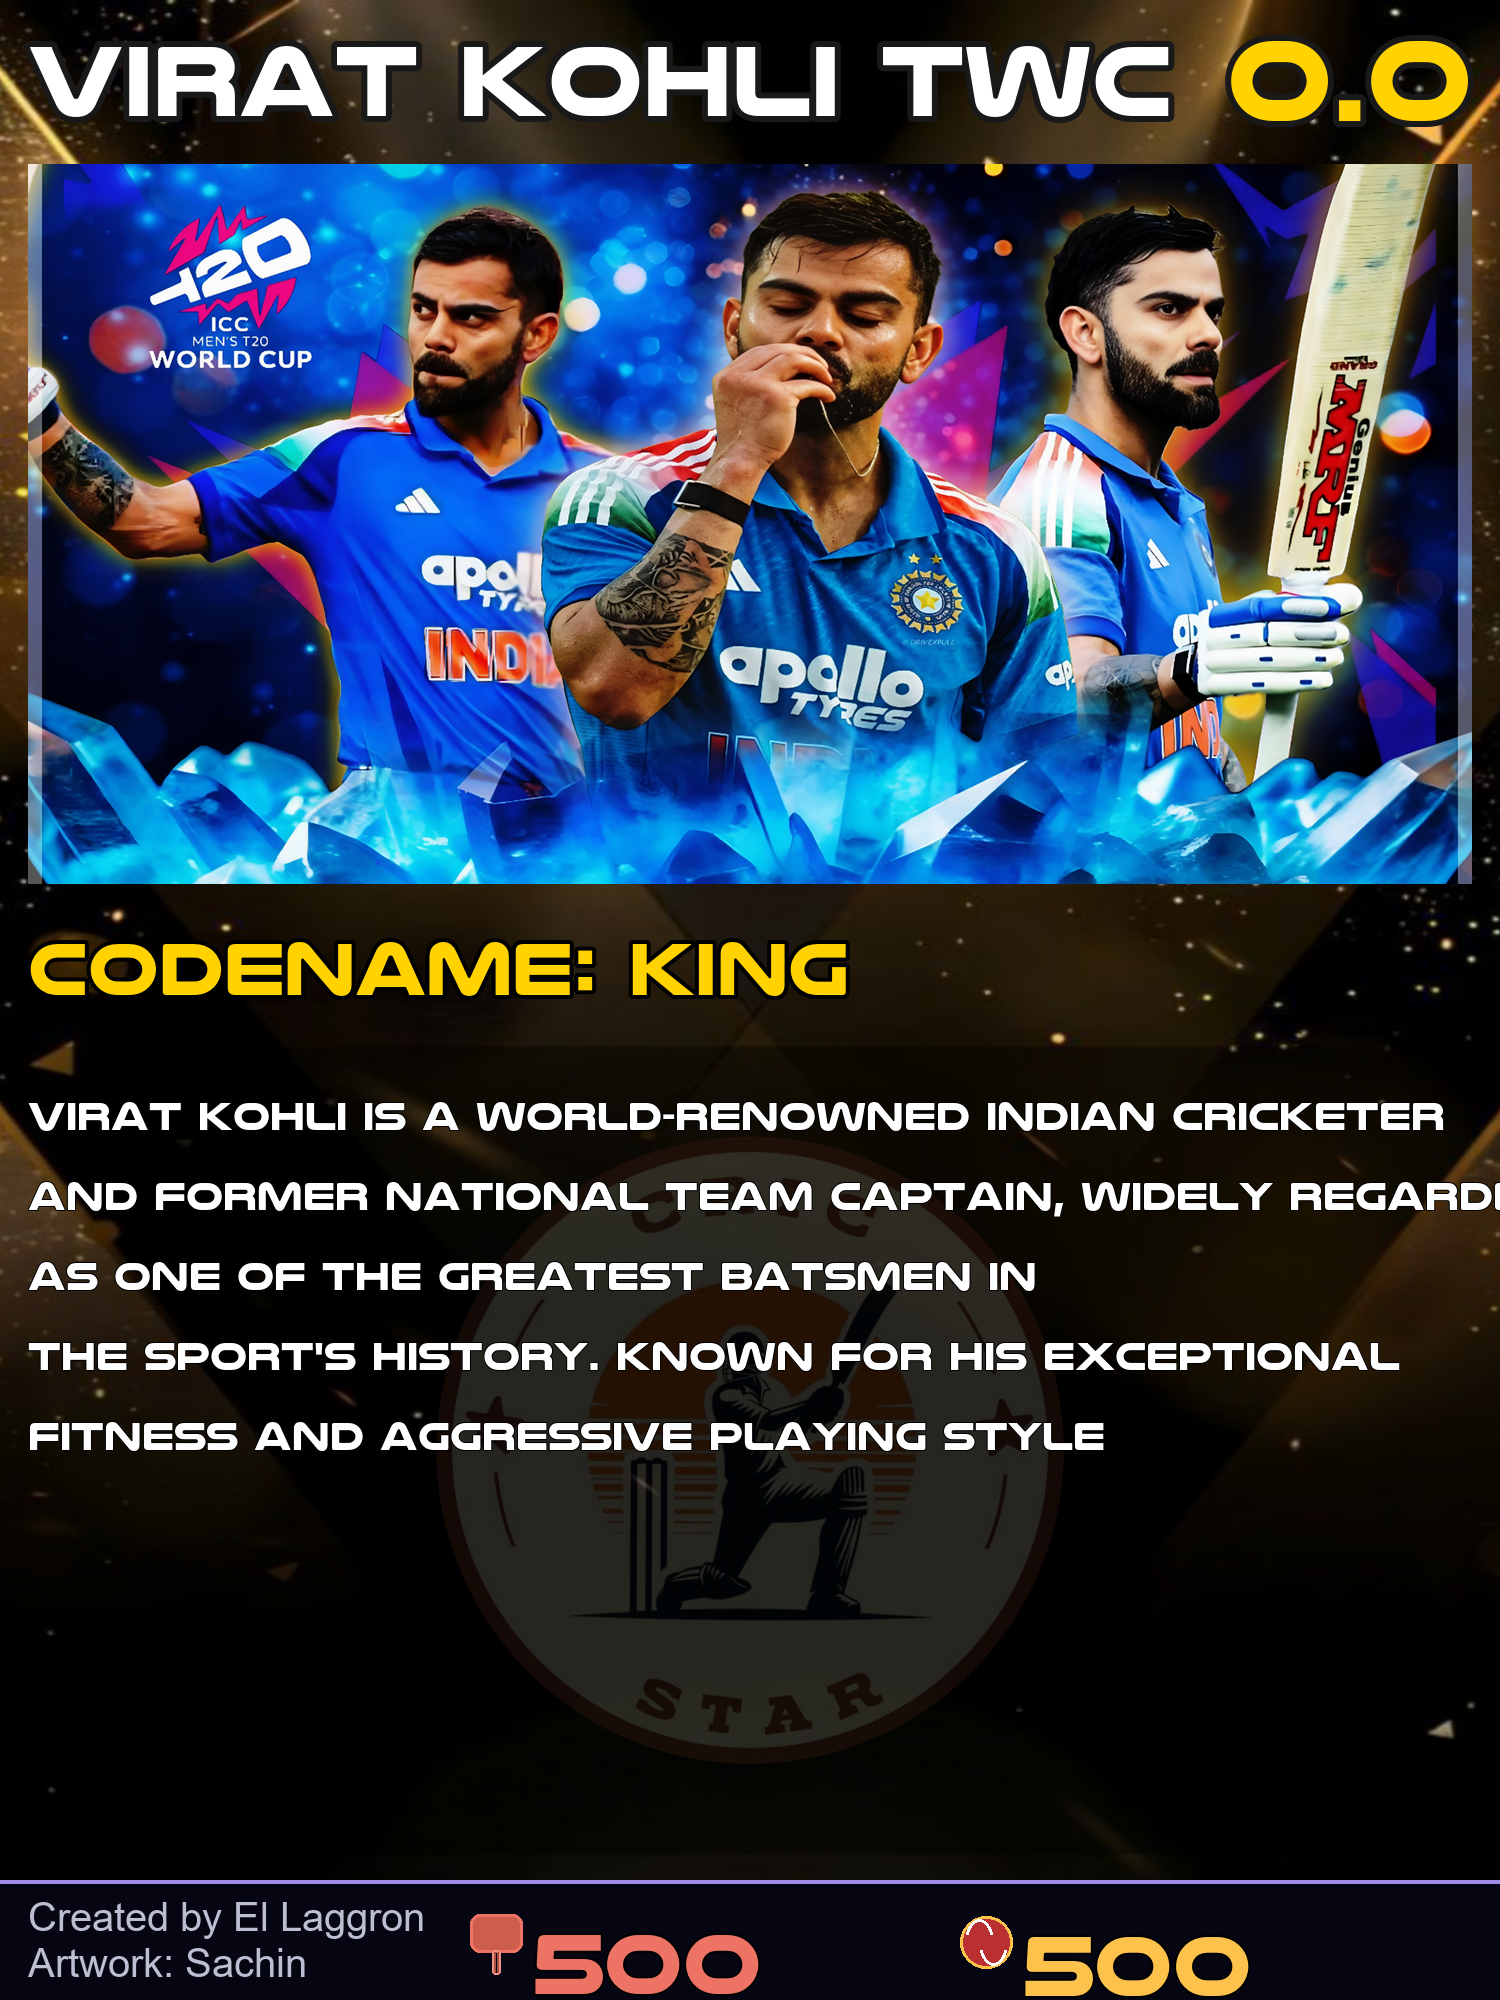
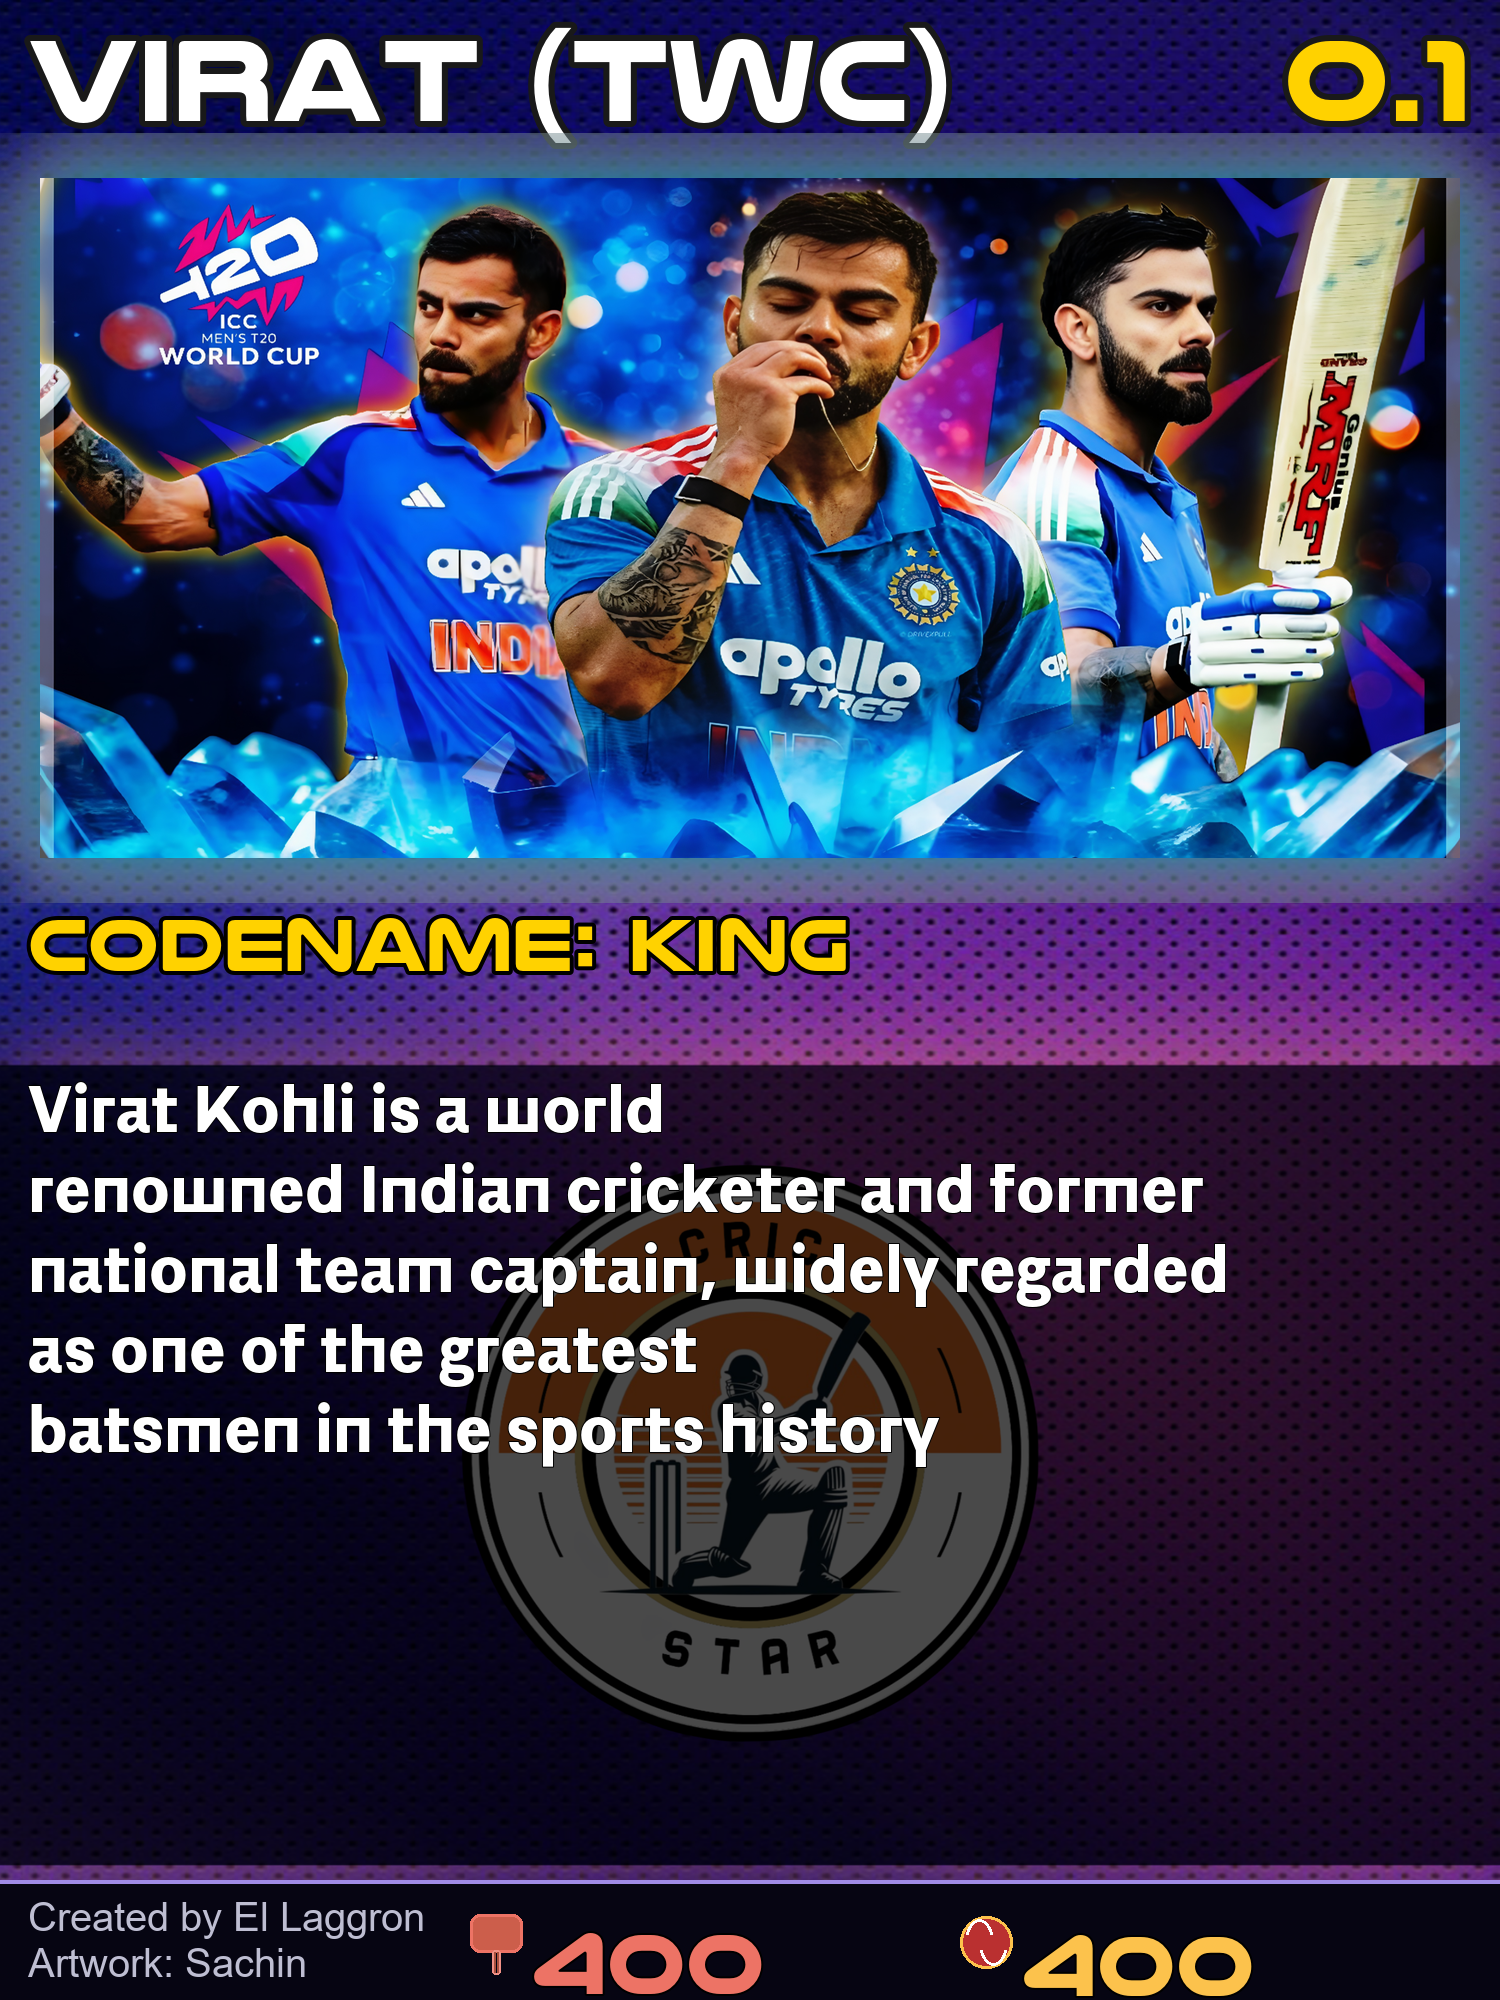
Add a way to customize player card glow colors
Implement persistent per-player neon glow color customization for player cards, along with a new admin command to manage these colors.

Replit-Commit-Author: Agent
Replit-Commit-Session-Id: 63eef69e-7baf-4389-9de5-37bcb6ae2cd5
Replit-Commit-Checkpoint-Type: full_checkpoint
Replit-Commit-Event-Id: f22c2b60-a782-4b21-9e42-8eb213b29935
Replit-Helium-Checkpoint-Created: true

diff --git a/cricstar/packages/admin/cog.py b/cricstar/packages/admin/cog.py
@@ -15,7 +15,7 @@ from discord.ui import ActionRow, Button, Container, Section, TextDisplay
 
 from cricstar.core.bot import impersonations
 from cricstar.core.discord import LayoutView
-from cricstar.core.image_generator.image_gen import draw_premade_card
+from cricstar.core.image_generator.image_gen import draw_premade_card, get_neon_color, save_neon_color
 from cricstar.core.utils import checks
 from cricstar.core.utils.buttons import ConfirmChoiceView
 from cricstar.core.utils.menus import (
@@ -551,6 +551,7 @@ class Admin(commands.Cog):
                 return draw_premade_card(
                     bg_path, fg_path, card_name, codename, description,
                     rarity, bat_score, ball_score, artwork_author, logo_path,
+                    neon_color=get_neon_color(player_name),
                 )
 
             with ThreadPoolExecutor() as pool:
@@ -793,6 +794,7 @@ class Admin(commands.Cog):
                     return draw_premade_card(
                         bg_path, fg_path, _card_name, _codename, _description,
                         _rarity, _bat, _ball, _author, logo_path,
+                        neon_color=get_neon_color(player_name),
                     )
 
                 with ThreadPoolExecutor() as pool:
@@ -1354,3 +1356,80 @@ class Admin(commands.Cog):
                 f"To clear impersonation, run `{ctx.prefix}admin impersonate` again.",
                 ephemeral=True,
             )
+
+    # ── 15 neon colours available for /admincolorset ──────────────────────────
+    _NEON_COLOR_CHOICES = [
+        app_commands.Choice(name="⚡ Electric Blue",   value="0064FF"),
+        app_commands.Choice(name="💎 Neon Cyan",       value="00D2FF"),
+        app_commands.Choice(name="☘ Neon Green",       value="00FF64"),
+        app_commands.Choice(name="⭐ Neon Yellow",      value="FFFF00"),
+        app_commands.Choice(name="🔥 Neon Orange",     value="FF8C00"),
+        app_commands.Choice(name="❤ Neon Red",         value="FF0050"),
+        app_commands.Choice(name="🌸 Hot Pink",         value="FF1493"),
+        app_commands.Choice(name="🔮 Neon Purple",      value="B400FF"),
+        app_commands.Choice(name="💜 Neon Magenta",     value="FF00C8"),
+        app_commands.Choice(name="🌟 Electric Violet",  value="8A2BE2"),
+        app_commands.Choice(name="🍀 Neon Lime",        value="96FF00"),
+        app_commands.Choice(name="🌊 Neon Teal",        value="00FFC8"),
+        app_commands.Choice(name="🏆 Gold",             value="FFC800"),
+        app_commands.Choice(name="🌺 Neon Coral",       value="FF5050"),
+        app_commands.Choice(name="❄ Ice Blue",          value="64C8FF"),
+    ]
+
+    @commands.hybrid_command(name="admincolorset")
+    @checks.is_superuser()
+    @app_commands.describe(
+        player_name="Select the cricketer to set the neon glow for",
+        neon_color="Choose one of 15 neon colours — applies as a glow around the card foreground",
+    )
+    @app_commands.autocomplete(player_name=_player_name_autocomplete)
+    @app_commands.choices(neon_color=_NEON_COLOR_CHOICES)
+    async def admincolorset(
+        self,
+        ctx: commands.Context["CricStarBot"],
+        player_name: str,
+        neon_color: app_commands.Choice[str],
+    ):
+        """
+        Set a neon glow colour around a cricketer's card foreground.
+
+        The glow is sized automatically to match the foreground frame and is
+        applied the next time the card is regenerated via /editcard or /cardmaker.
+
+        Parameters
+        ----------
+        player_name: str
+            The cricketer's name (autocomplete from the database).
+        neon_color: app_commands.Choice[str]
+            One of 15 neon colours to apply as the foreground glow.
+        """
+        # Find the ball in the database
+        ball = None
+        for b in balls_cache.values():
+            if b.country.lower() == player_name.lower():
+                ball = b
+                break
+
+        if ball is None:
+            await ctx.send(
+                f"❌ No cricketer found with the name **{player_name}**. "
+                "Use the autocomplete to pick a valid name.",
+                ephemeral=True,
+            )
+            return
+
+        # Parse hex value → RGB tuple
+        hex_val = neon_color.value
+        r = int(hex_val[0:2], 16)
+        g = int(hex_val[2:4], 16)
+        b_val = int(hex_val[4:6], 16)
+        color = (r, g, b_val)
+
+        # Persist to disk
+        save_neon_color(ball.country, color)
+
+        await ctx.send(
+            f"✅ Neon colour **{neon_color.name}** set for **{ball.country}**.\n"
+            f"Run `/editcard` on this player to bake the glow into their premade card.",
+            ephemeral=True,
+        )

diff --git a/cricstar/core/image_generator/image_gen.py b/cricstar/core/image_generator/image_gen.py
@@ -34,6 +34,7 @@ MEDIA_DIR = Path("./admin_panel/media")
 # }
 #
 EVENT_CONFIG_PATH = MEDIA_DIR / "event_config.json"
+NEON_COLORS_PATH = MEDIA_DIR / "neon_colors.json"
 
 WIDTH = 1500
 HEIGHT = 2000
@@ -139,6 +140,34 @@ def apply_neon_glow(
     card.paste(region, (cx, cy), mask=region)
     boosted.close()
     region.close()
+
+
+def load_neon_colors() -> dict:
+    """Load the per-player neon color map from disk."""
+    try:
+        if NEON_COLORS_PATH.exists():
+            return json.loads(NEON_COLORS_PATH.read_text())
+    except Exception:
+        pass
+    return {}
+
+
+def save_neon_color(country: str, color: "tuple | None") -> None:
+    """Persist a neon color for a player, or remove it if color is None."""
+    colors = load_neon_colors()
+    if color is None:
+        colors.pop(country, None)
+    else:
+        colors[country] = list(color)
+    NEON_COLORS_PATH.write_text(json.dumps(colors, indent=2))
+
+
+def get_neon_color(country: str) -> "tuple | None":
+    """Return the stored RGB tuple for a player, or None if not set."""
+    c = load_neon_colors().get(country)
+    if c and len(c) >= 3:
+        return (int(c[0]), int(c[1]), int(c[2]))
+    return None
 
 
 def draw_card(ball_instance: "BallInstance") -> tuple[Image.Image, dict[str, Any]]:
@@ -265,7 +294,9 @@ def draw_card(ball_instance: "BallInstance") -> tuple[Image.Image, dict[str, Any
     )
 
     artwork = Image.open(ball.collection_card).convert("RGBA")
-    apply_neon_glow(image, CORNERS[0][0], CORNERS[0][1], artwork_size[0], artwork_size[1])
+    neon = get_neon_color(ball.country)
+    if neon:
+        apply_neon_glow(image, CORNERS[0][0], CORNERS[0][1], artwork_size[0], artwork_size[1], color=neon)
     image.paste(ImageOps.fit(artwork, artwork_size), CORNERS[0])  # type: ignore
 
     if icon:
@@ -298,6 +329,7 @@ def draw_premade_card(
     ball_score: int,
     artwork_author: str,
     logo_path: "str | Path | None" = None,
+    neon_color: "tuple | None" = None,
 ) -> "tuple[Image.Image, dict[str, Any]]":
     """
     Generate a trading-card-style cricket card with Nulshock Bold font.
@@ -382,8 +414,9 @@ def draw_premade_card(
     fg = Image.open(str(foreground_path)).convert("RGBA")
     # Fit inside the landscape frame — minimal cropping for landscape images
     fg_fitted = ImageOps.fit(fg.convert("RGBA"), (FRAME_W, FRAME_H), Image.LANCZOS)
-    # Neon glow behind the foreground frame
-    apply_neon_glow(bg, FRAME_X, FRAME_Y, FRAME_W, FRAME_H)
+    # Neon glow behind the foreground frame — only when a color is set
+    if neon_color:
+        apply_neon_glow(bg, FRAME_X, FRAME_Y, FRAME_W, FRAME_H, color=neon_color)
     # Use alpha channel as mask so transparent PNGs composite correctly;
     # for opaque JPEGs the alpha is all-255 so this works in both cases.
     bg.paste(fg_fitted, (FRAME_X, FRAME_Y), mask=fg_fitted)
